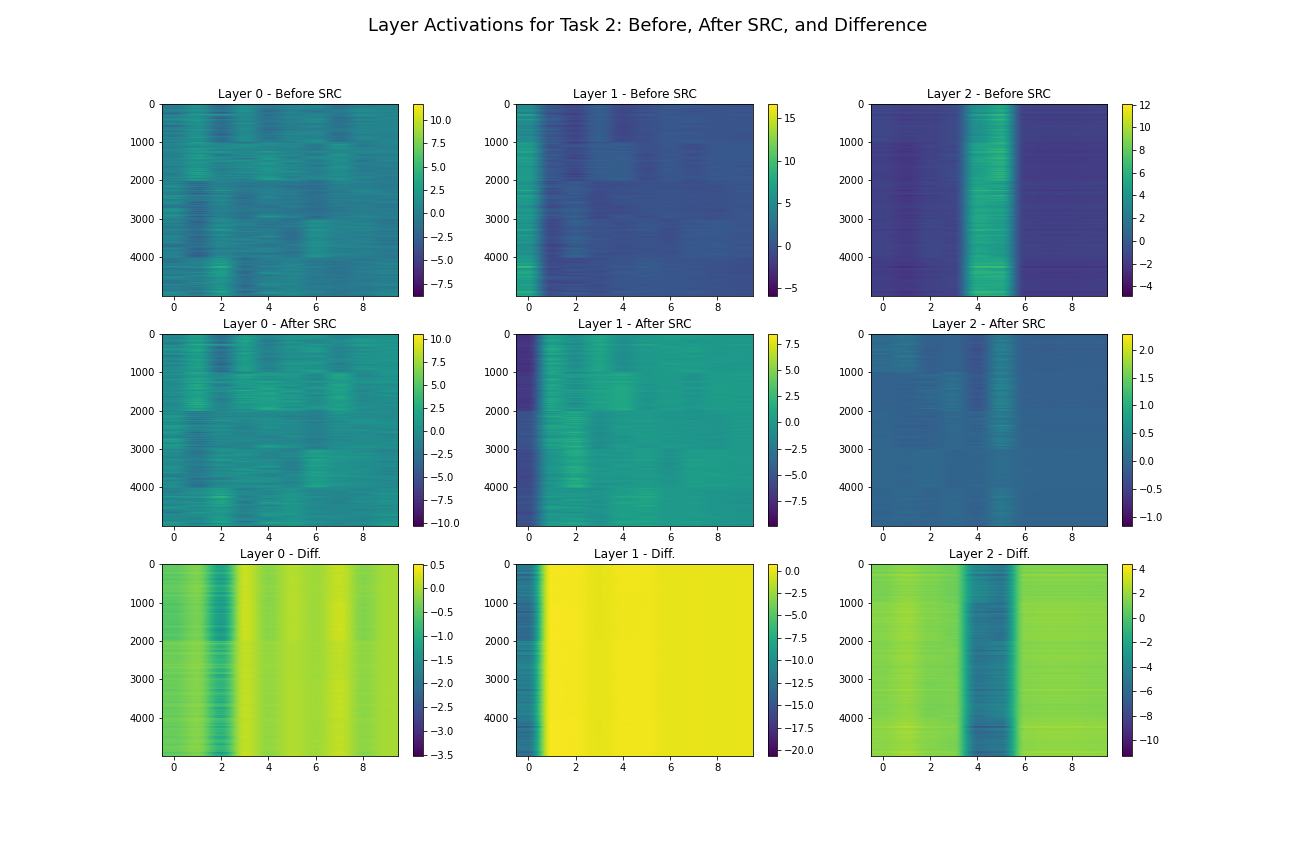
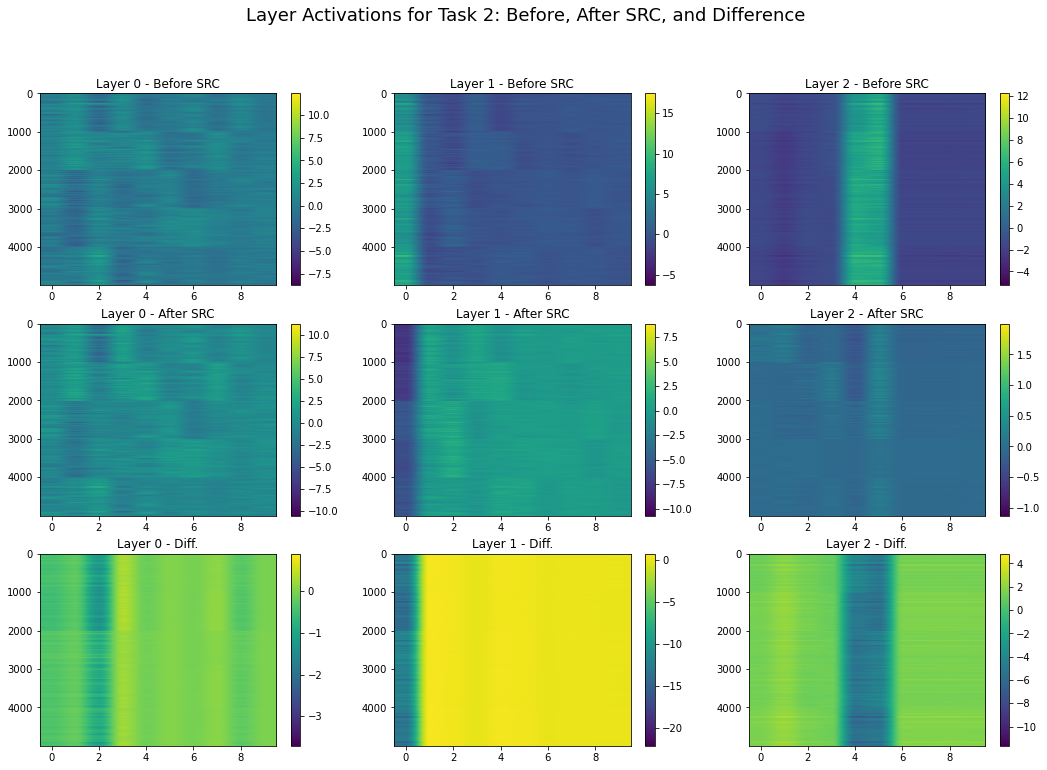
disable transparent figure

diff --git a/mnist_exp.py b/mnist_exp.py
@@ -289,8 +289,8 @@ def run_sleep_exp(acc_df: list, sleep_opts_update={}):
             axs[2, i].set_title(f'Layer {i} - Diff.', fontsize=12)
             fig.colorbar(im3, ax=axs[2, i])
 
-        fig.savefig(f'./png/layer_activations_task_{task_id}_before_after_src.png')
-
+        fig.savefig(f'./png/layer_activations_task_{task_id}_before_after_src.png', bbox_inches='tight', facecolor='w')
+                    
     acc_df = log_accuracy(f'SRC', 'After Training', acc_df, src_model, test_x, test_y, test_tasks, sleep_opts)
 
     print(evaluate_all(src_model, test_x, test_y))
@@ -365,7 +365,7 @@ for i in range(len(model.layers)):
     axs[i].set_title(f'Layer {i} - After SRC', fontsize=12)
     fig.colorbar(im2, ax=axs[i])
 
-fig.savefig(f'./png/layer_activations_parallel.png')
+fig.savefig(f'./png/layer_activations_parallel.png', bbox_inches='tight', facecolor='w')
 
 #%%
 acc_df = pd.DataFrame(acc_df)
